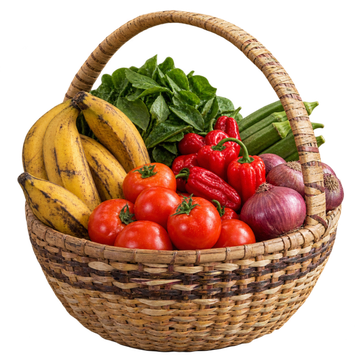
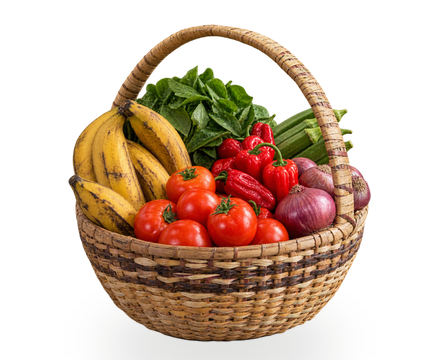
Compose the six service photographs as one consistent set
The six cut-outs arrived at very different visual sizes: the pharmacy kit
covered 37% of its frame, the market basket 59%, so the Home grid looked
uneven. compose_services.py now treats them as a set: each is trimmed to
its subject, scaled to the same opaque share of the frame (41%), stood on
one shared baseline, and given a soft contact shadow so nothing floats
on Light (on Dark it dissolves into the tile). Frames are 88:72, the
tile's image box, at 440 x 360.

The cut-out edges were measured for a white matte fringe and have none,
so the set sits cleanly on Dark tiles. The README records the method,
how to rebuild from the 640 px originals in b4968bf, and that the
photographs' source and licence are still to be confirmed.

Checked: Light and Dark Home in the web build at A55 metrics.

diff --git a/apps/mobile/assets/services/compose_services.py b/apps/mobile/assets/services/compose_services.py
@@ -1,0 +1,41 @@
+"""Compose the six service photographs as one consistent set.
+
+Each cut-out is trimmed to its subject, scaled so every subject carries the
+same visual weight (equal opaque area, capped by the frame), stood on a shared
+baseline, and given a soft contact shadow so nothing floats. Output frames are
+88:72, the service tile's image box, at 5x (440 x 360).
+"""
+import math, sys
+from PIL import Image, ImageDraw, ImageFilter
+
+SRC, OUT = sys.argv[1], sys.argv[2]
+NAMES = ['food', 'shops', 'pharmacy', 'local-market', 'declutter', 'logistics']
+W, H = 440, 360
+BOX_W, BOX_H = 404, 318   # the largest a subject may be
+BASELINE = 342            # every subject stands here
+
+items = {}
+for n in NAMES:
+    im = Image.open(f'{SRC}/{n}.png').convert('RGBA')
+    im = im.crop(im.split()[3].point(lambda v: 255 if v > 6 else 0).getbbox())
+    area = sum(im.split()[3].histogram()[v] * v for v in range(256)) / 255
+    items[n] = (im, area)
+
+# Equal opaque area, as large as the most constrained subject allows, but let
+# a subject that cannot reach it (a wide, shallow plate) stay at its own cap.
+caps = {n: min(BOX_W / im.width, BOX_H / im.height) for n, (im, _) in items.items()}
+target = sorted(area * caps[n] ** 2 for n, (_, area) in items.items())[1]   # second-smallest cap
+for n, (im, area) in items.items():
+    s = min(math.sqrt(target / area), caps[n])
+    sub = im.resize((round(im.width * s), round(im.height * s)), Image.LANCZOS)
+    frame = Image.new('RGBA', (W, H), (0, 0, 0, 0))
+    # contact shadow: a soft ellipse under the subject's footprint
+    shadow = Image.new('L', (W, H), 0)
+    sw, sh = sub.width * 0.78, max(10, sub.width * 0.075)
+    cx, cy = W / 2, BASELINE - sh * 0.18
+    ImageDraw.Draw(shadow).ellipse([cx - sw / 2, cy - sh / 2, cx + sw / 2, cy + sh / 2], fill=70)
+    shadow = shadow.filter(ImageFilter.GaussianBlur(sh * 0.9))
+    frame.paste((20, 16, 10, 255), (0, 0), shadow)
+    frame.alpha_composite(sub, (round((W - sub.width) / 2), BASELINE - sub.height))
+    frame.save(f'{OUT}/{n}.png', optimize=True)
+    print(f'{n:13} subject {sub.width}x{sub.height}  opaque area {area * s * s / (W * H):.2f} of frame')

diff --git a/apps/mobile/assets/services/README.md b/apps/mobile/assets/services/README.md
@@ -2,20 +2,42 @@
 
 These are the photographs on the six Home service tiles: Food, Shops,
 Pharmacy, Local Market, Declutter and Logistics. Each is a photographic
-cut-out on a transparent background, 360 × 360 px, and is shown at 72 pt
-(216 px on a 3× screen).
+cut-out on a transparent background, composed into an 88:72 frame (the tile's
+image box) at 440 × 360 px.
 
 They replaced the drawings cut from the approved board, which looked clipped
 and artificial on the A55. David asked for real photos on 14 September.
+
+## How they are composed
+
+`compose_services.py` treats the six as one set:
+
+- **Trim.** Each cut-out is cropped to its subject.
+- **Equal visual weight.** Each subject is scaled so it covers the same share
+  of the frame (41%). A wide plate and a tall basket then read as the same
+  size, where the raw images varied from 37% to 59%.
+- **One baseline.** Every subject stands on the same line near the bottom of
+  the frame.
+- **Contact shadow.** A soft shadow sits under each subject, so nothing
+  floats on Light. On Dark it disappears into the tile.
+
+The cut-out edges were checked for a white matte fringe and have none: the
+semi-transparent edge pixels are the subject's own colour. So the images sit
+cleanly on the Dark tiles too.
+
+To rebuild, run the script over the 640 px originals from commit `b4968bf`:
+
+```bash
+git show b4968bf:apps/mobile/assets/v2/categories/<name>.png > <dir>/<name>.png
+python compose_services.py <dir> .
+```
 
 ## Source: to confirm before any store release
 
 Codex added these images on `codex/native-mobile-v2-rebuild`, in commit
 `b4968bf`, "Replace category illustrations with real photography", on
-14 September 2026. They were resized here from 640 px.
-
-That commit records no photographer, source or licence. Before a public
-release, either:
+14 September 2026. That commit records no photographer, source or licence.
+Before a public release, either:
 
 - confirm where the images came from and that DASH may use them commercially;
   or
